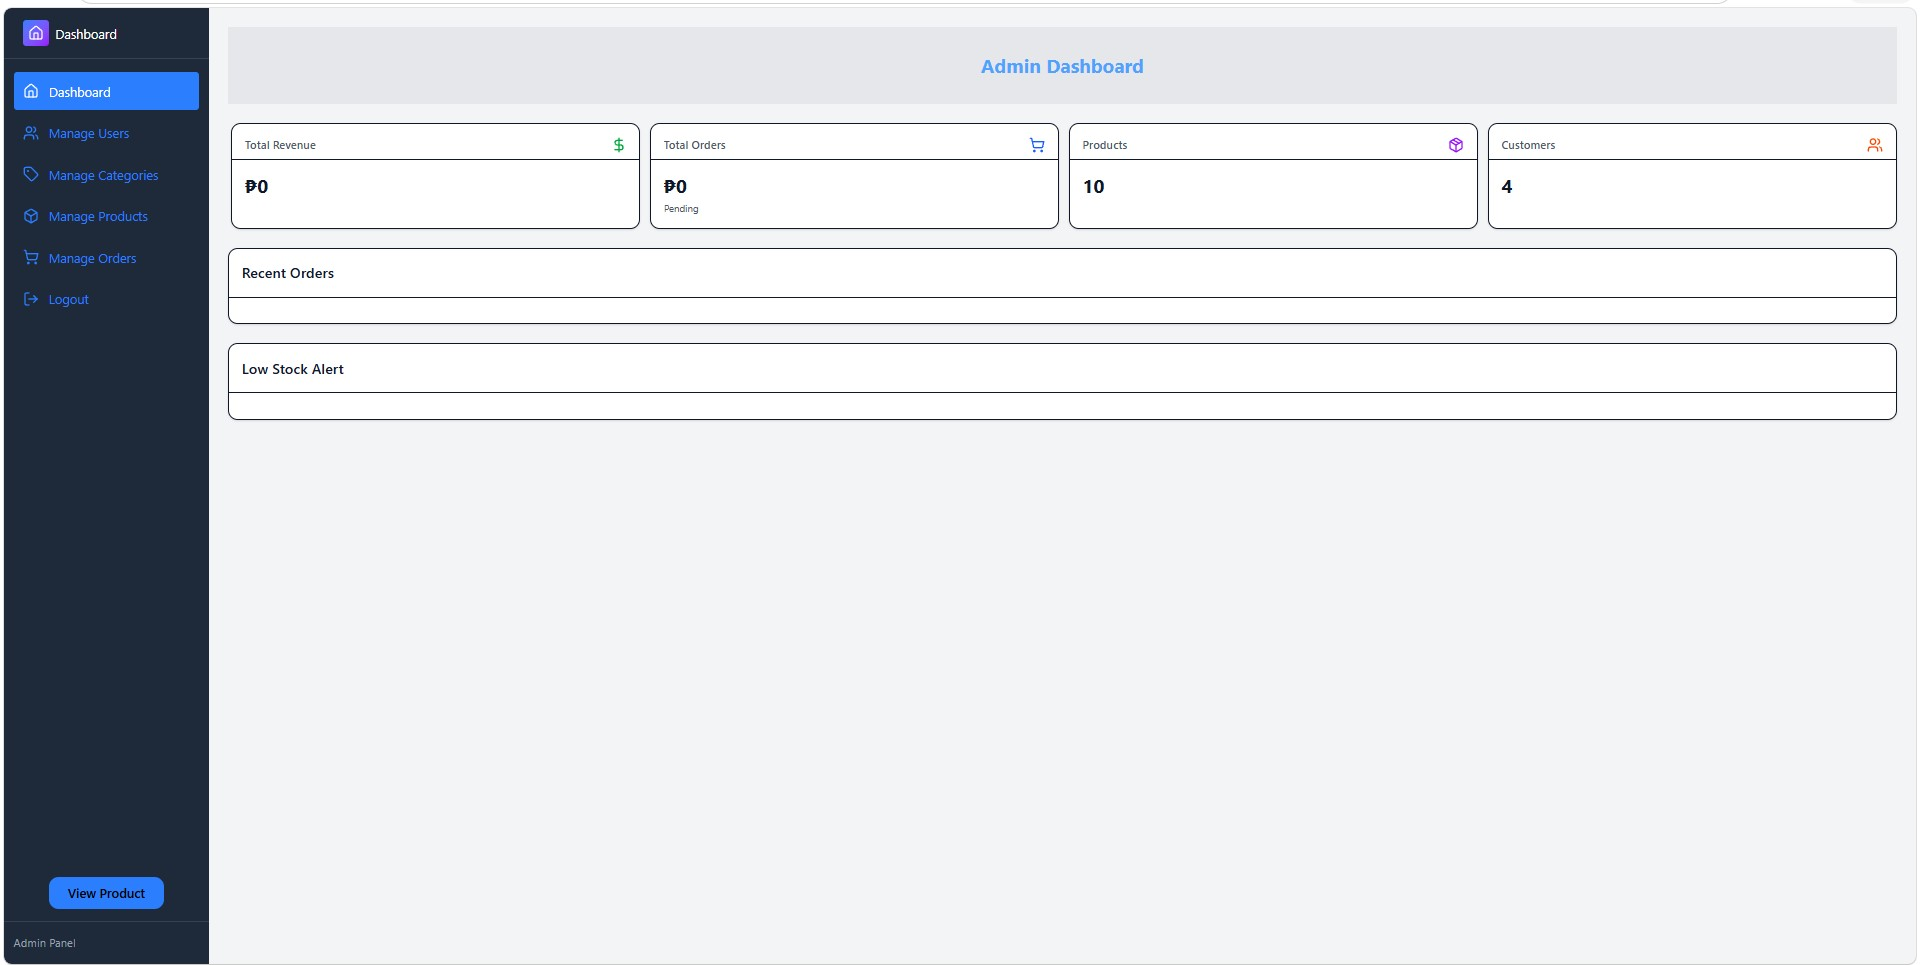
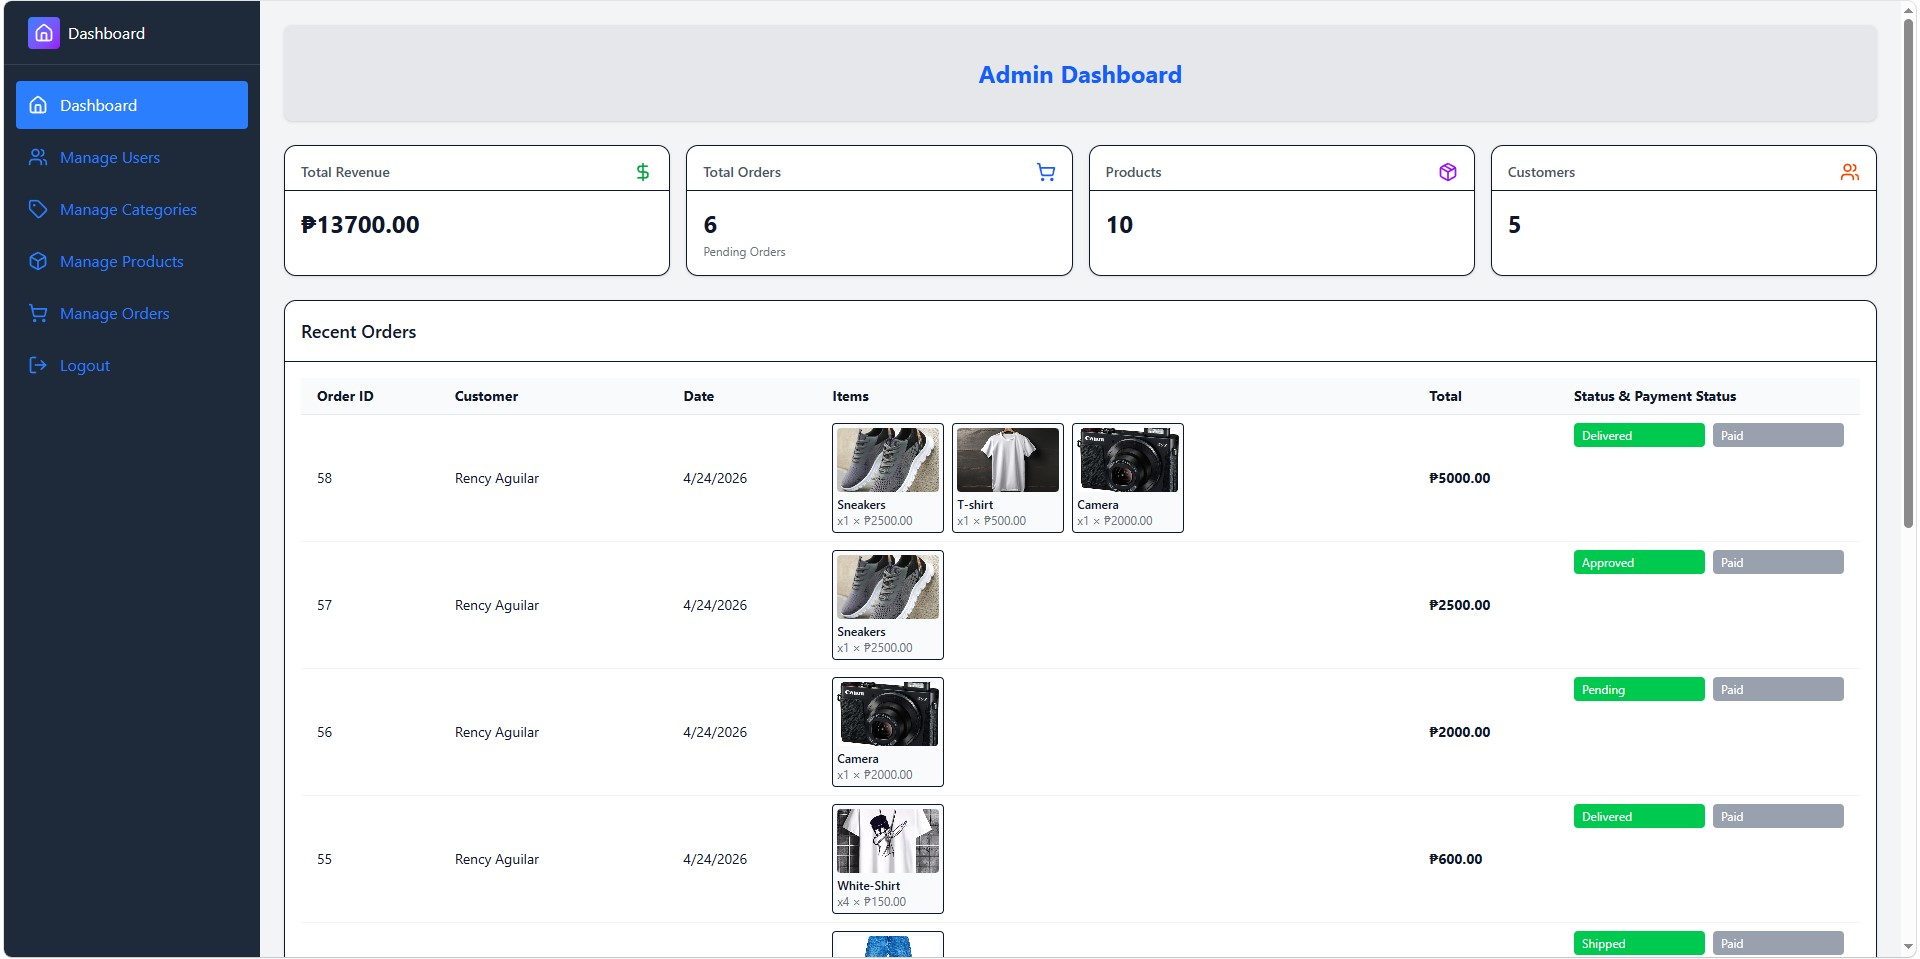
4/25/26 updateed

diff --git a/client/src/pages/admin-panel/AdminDashboard.jsx b/client/src/pages/admin-panel/AdminDashboard.jsx
@@ -17,6 +17,11 @@ const AdminDashboard = () => {
 
   const { stats, loading, error } = useAdminDashboard();
 
+  const capitalizeFirstLetter = (text) => {
+    if (!text) return "";
+    return text.charAt(0).toUpperCase() + text.slice(1).toLowerCase();
+  };
+
   useEffect(() => {
     const fetchDashboardData = async () => {
       try {
@@ -113,9 +118,9 @@ const AdminDashboard = () => {
                     <th className="px-4 py-2 text-left">Order ID</th>
                     <th className="px-4 py-2 text-left">Customer</th>
                     <th className="px-4 py-2 text-left">Date</th>
-                    <th className="px-4 py-2 text-left">Status</th>
                     <th className="px-4 py-2 text-left">Items</th>
                     <th className="px-4 py-2 text-left">Total</th>
+                    <th className="px-4 py-2 text-left">Status & Payment Status</th>
                   </tr>
                 </thead>
                 <tbody className="divide-y divide-gray-100">
@@ -125,17 +130,6 @@ const AdminDashboard = () => {
                       <td className="px-4 py-2">{order.customer_name}</td>
                       <td className="px-4 py-2">
                         {new Date(order.created_at).toLocaleDateString()}
-                      </td>
-                      <td className="px-4 py-2">
-                        <span
-                          className={`px-2 py-1 rounded text-white text-xs ${
-                            order.status === "Pending"
-                              ? "bg-yellow-500"
-                              : "bg-green-500"
-                          }`}
-                        >
-                          {order.status}
-                        </span>
                       </td>
                       <td className="px-4 py-2">
                         {Array.isArray(order.items) &&
@@ -169,8 +163,7 @@ const AdminDashboard = () => {
                       <td className="px-4 py-2 font-bold">
                         ₱{order.total_price}
                       </td>
-                      <td className="px-4 py-2 flex flex-col space-y-1 uppercase">
-                        {/* Order Status */}
+                      <td className="px-4 py-2 grid grid-cols-2 gap-2">
                         <span
                           className={`px-2 py-1 rounded text-white text-xs ${
                             order.status === "Pending"
@@ -178,10 +171,9 @@ const AdminDashboard = () => {
                               : "bg-green-500"
                           }`}
                         >
-                          {order.status}
+                          {capitalizeFirstLetter(order.status)}
                         </span>
 
-                        {/* Payment Status */}
                         <span
                           className={`px-2 py-1 rounded text-white text-xs ${
                             order.payment_status === "Paid"
@@ -191,7 +183,9 @@ const AdminDashboard = () => {
                                 : "bg-gray-400"
                           }`}
                         >
-                          {order.payment_status || "Unknown"}
+                          {capitalizeFirstLetter(
+                            order.payment_status || "Unknown",
+                          )}
                         </span>
                       </td>
                     </tr>

diff --git a/client/src/pages/users-panel/UserProfile.jsx b/client/src/pages/users-panel/UserProfile.jsx
@@ -87,9 +87,15 @@ const UserProfile = () => {
         </div>
       </div>
       {/* ORDER HISTORY */}
+      <div className="bg-white shadow-sm rounded-xl p-6 mb-6 mt-5">
+        <h1 className="text-2xl font-bold text-gray-800">Order History</h1>
+        <p className="text-gray-500 text-sm">
+          View and manage your order history
+        </p>
+      </div>
       <div className="bg-white rounded-xl shadow-md p-6 mt-6">
         <h3 className="text-lg font-semibold text-gray-800 mb-6 border-b pb-2">
-          Order History
+          Order List
         </h3>
 
         <div className="space-y-4">

diff --git a/client/src/components/ui/PaymentSuccessful.jsx b/client/src/components/ui/PaymentSuccessful.jsx
@@ -33,7 +33,7 @@ const PaymentSuccessful = () => {
           </button>
 
           <button
-            onClick={() => navigate("/orders")}
+            onClick={() => navigate("/user-profile")}
             className="bg-gray-100 hover:bg-gray-200 text-gray-700 py-3 rounded-xl font-semibold transition"
           >
             📦 View My Orders

diff --git a/README.md b/README.md
@@ -115,24 +115,25 @@ This project showcases my ability to design and develop a full-stack web applica
 ![Home Page](./client/screenshots/HomePage.jpg)
 
 **🛒 Shop Page**
-![Shop Page](./client/screenshots/UserLandingPage.jpg)
+![Shop Page](./client/screenshots/UsersProduct.jpg)
 
 **📄 Product View**
-![Product View](./client/screenshots/ProductAdd.jpg)
+![Product View](./client/screenshots/UsersProductView.jpg)
 
 **➕ Add to Cart**
 ![Add to Cart](./client/screenshots/AddToCartPage.jpg)
 
-**⚙ Profile Settings**
+**🛒 Checkout**
+![Check Out](./client/screenshots/UsersPayments.jpg)
+
+**✅ Payment Success Confirmation**
+![Payment Message](./client/screenshots/UsersSuccessPayment.jpg)
+
+**👤 Profile Management**
 ![Profile Settings](./client/screenshots/ProfileSettings.jpg)
 
----
-
-### 🛒 Checkout
-
-🚧 Currently under development — core functionality (cart, authentication, and order flow) is already implemented.
-
----
+**📜 Order History & Tracking**
+![Order History](./client/screenshots/OrderHistory.jpg)
 
 ### 🛠 Admin Pages
 
@@ -141,12 +142,15 @@ This project showcases my ability to design and develop a full-stack web applica
 **📊 Admin Overview Dashboard**
 ![Admin Dashboard](./client/screenshots/AdminDashboard.jpg)
 
+**📊 Admin Overview Dashboard**
+![Admin Dashboard](./client/screenshots/AdminDashboard2.jpg)
+
 ---
 
 #### 👥 Manage Users
 
 **📋 User Management Table**
-![Manage Users](./client/screenshots/UserManage.jpg)
+![Manage Users](./client/screenshots/ManageUsers.jpg)
 
 **👁 View User Details**
 ![View Users](./client/screenshots/UserViewingInfo.jpg)
@@ -199,14 +203,18 @@ This project showcases my ability to design and develop a full-stack web applica
 
 ### 📦 Manage Orders
 
-🚧 Planned feature — will include order tracking and admin order management.
+**📦 Manage Orders**
+![Manage Orders](./client/screenshots/ManageOrders.jpg)
+
+**🔄 Update Order Status**
+![Status Orders](./client/screenshots/UpdateStatus.png)
 
 ---
 
 ### 🧾 Admin Viewing All Products
 
 **📋 Admin Product List View**
-![Admin View All Products](./client/screenshots/AdminViewAll.jpg)
+![Admin View All Products](./client/screenshots/AdminViewProducts.jpg)
 
 ---
 
@@ -224,6 +232,7 @@ This project showcases my ability to design and develop a full-stack web applica
 - react-router-dom
 - axios
 - lucide-react
+- react-qr-code
 
 ---
 
